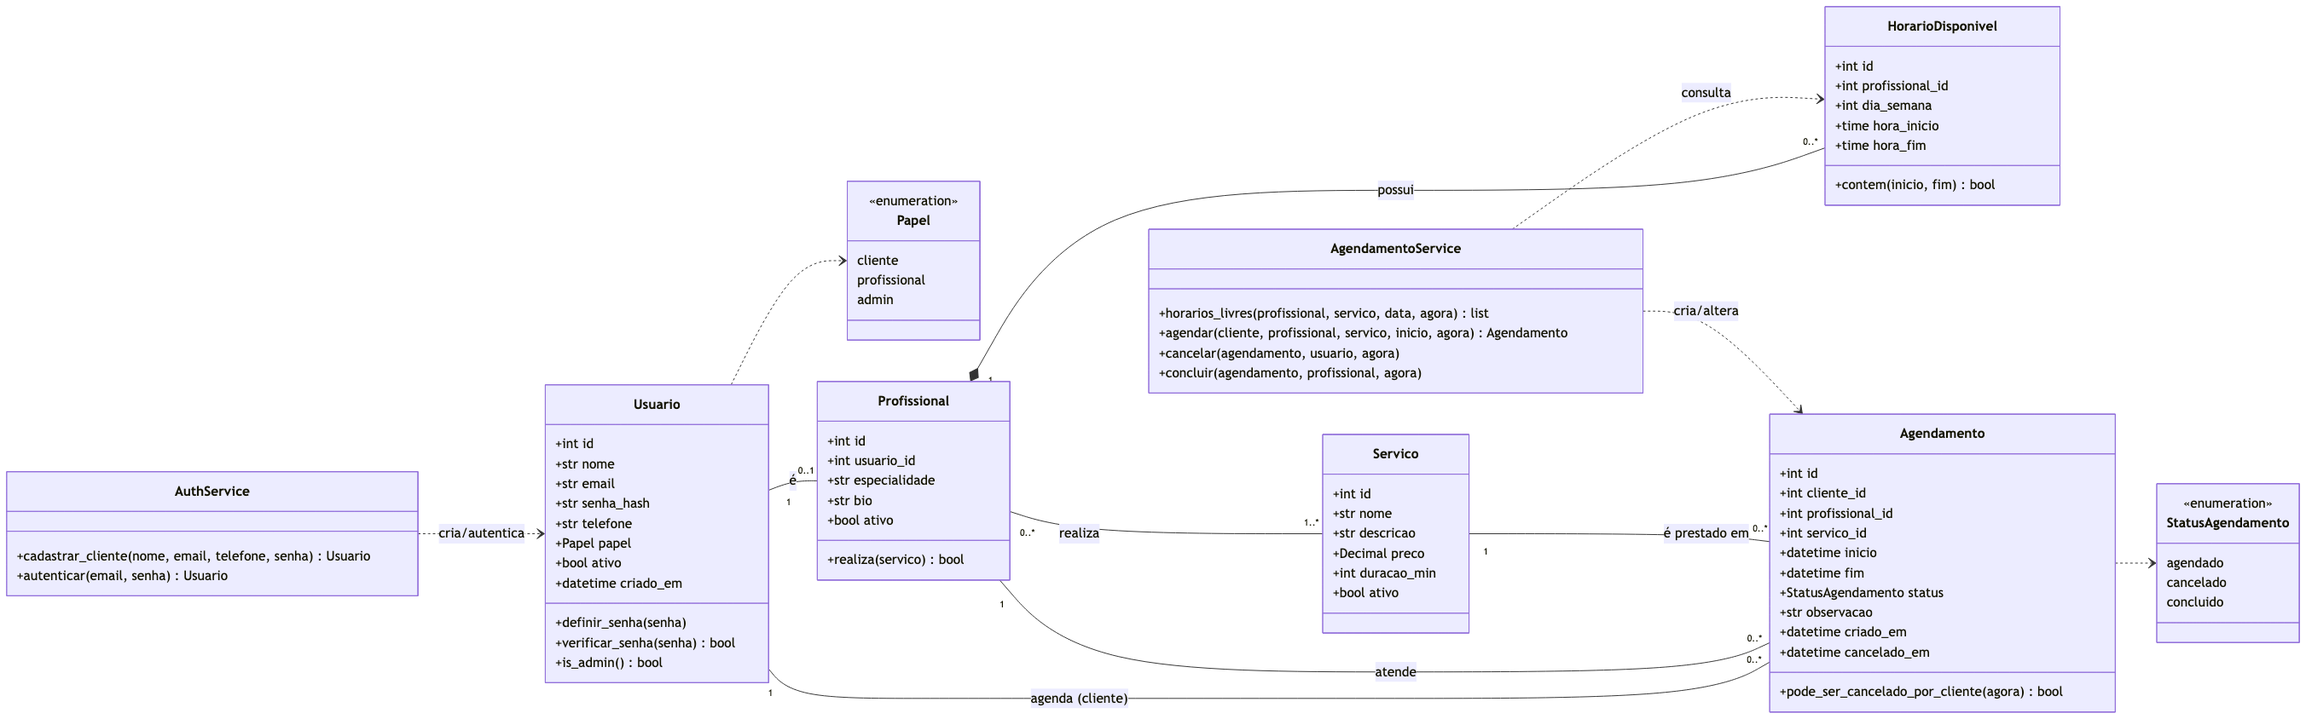
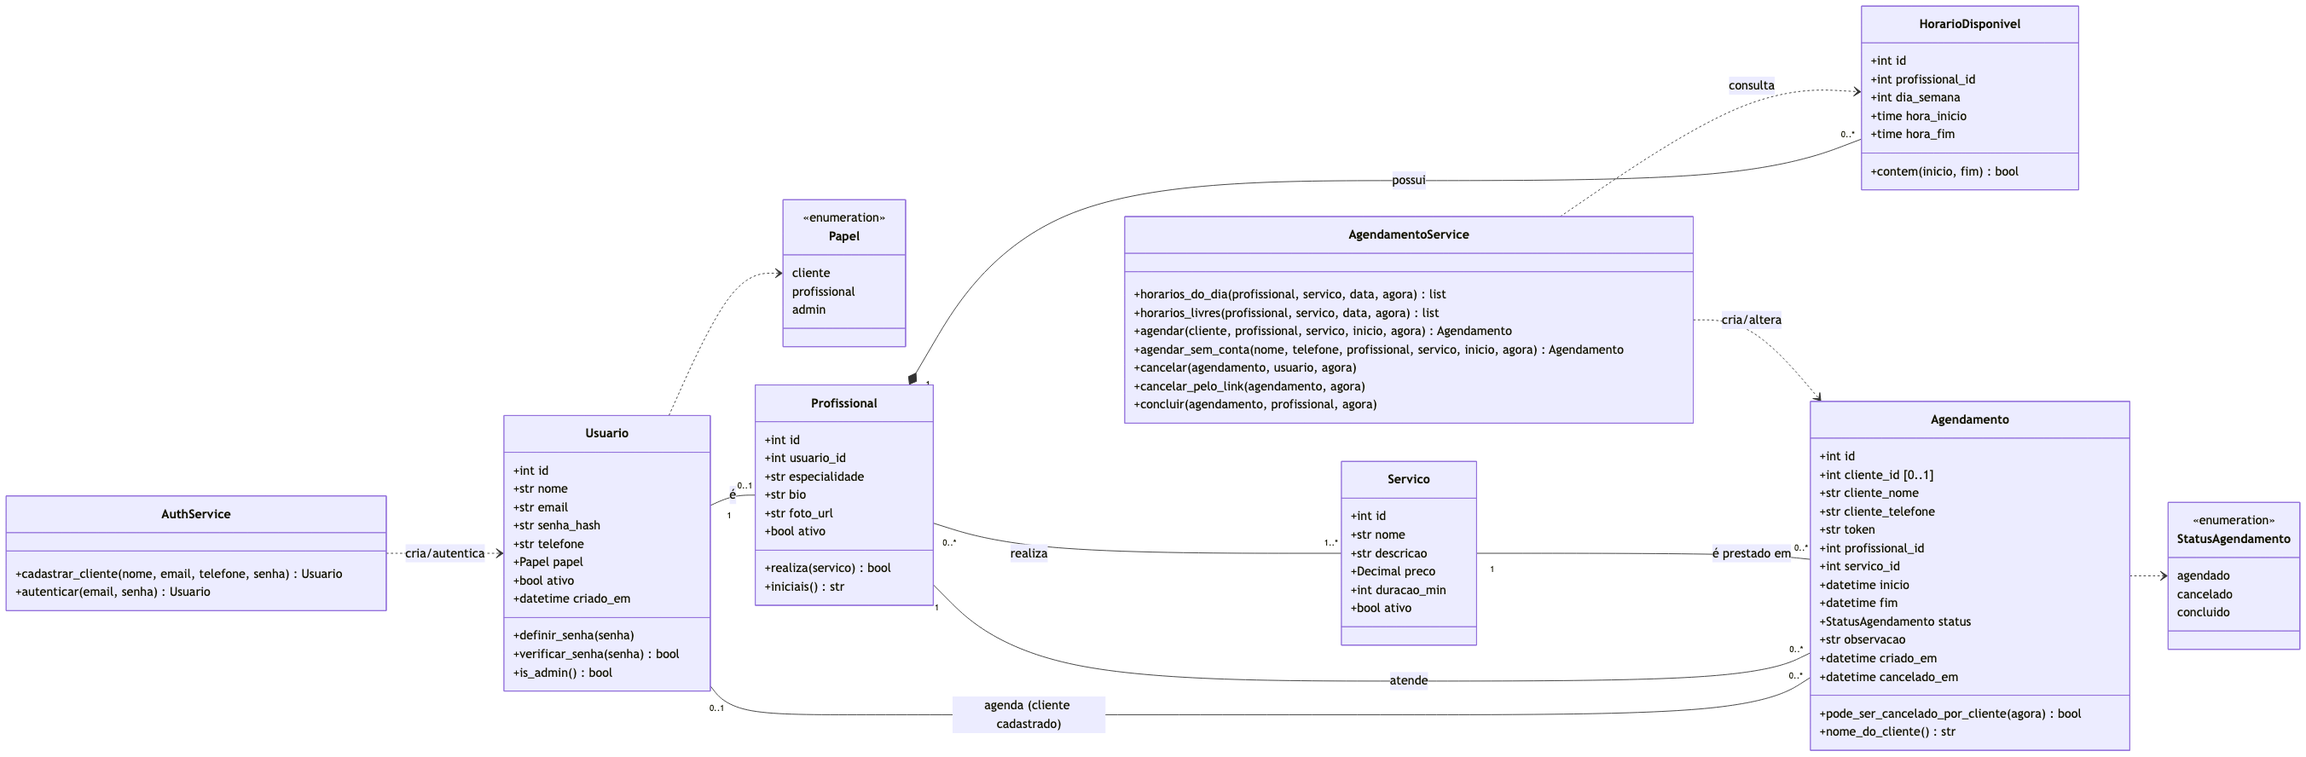
docs: testes dos 5 colegas no laudo, plano e formulário; parecer final; roteiro do vídeo e diagramas atualizados

diff --git a/scripts/preencher_formulario.py b/scripts/preencher_formulario.py
@@ -13,7 +13,6 @@ import docx
 RAIZ = Path(__file__).resolve().parents[1]
 MODELO = RAIZ / "entrega" / "modelo" / "PIT_atividade_8.docx"
 SAIDA = RAIZ / "entrega" / "PIT_atividade_8_preenchido.docx"
-PENDENTE_TESTE = "[PENDENTE: aguardando teste real]"
 
 
 def run_como(paragrafo, texto, modelo_run=None, negrito=False):
@@ -41,6 +40,33 @@ def acrescentar_na_celula(celula, texto):
     p = celula.paragraphs[-1]
     ref = p.runs[0] if p.runs else None
     run_como(p, " " + texto, ref, negrito=False)
+
+
+COLEGAS = [
+    ("Andrew", "28/10/2026",
+     "Parte A completa (A1 a A15) no celular Android + Chrome: cadastro, login, agendamento, cancelamento e "
+     "telas de erro.",
+     "O cadastro aceitava telefone só com símbolos, como \"((((((((\". Corrigir para aceitar só números e formatar "
+     "no padrão (xx) xxxxx-xxxx. Corrigido (C-01).",
+     "Parte B (profissional e administrador): testou apenas como cliente."),
+    ("Theo Nicoleli", "29/10/2026",
+     "A1 a A8, A12, A14 e A15 no iPhone: cadastro, login, agendamento, horário ocupado e celular.",
+     "Nada. Sugeriu agendar só com o telefone, sem tantos dados: aplicado como agendamento sem cadastro.",
+     "A9, A10, A11, A13 e a Parte B: quis testar só como cliente."),
+    ("Davi Inoue", "31/10/2026",
+     "Partes A e B completas (A1 a A15 e B1 a B4) no notebook Windows + Chrome.",
+     "Nada. Sugeriu aviso por WhatsApp ou e-mail e integração com o Google Agenda: Google Agenda aplicado.",
+     "Nenhuma."),
+    ("Arthur Furtado", "31/10/2026",
+     "A1 a A12, A14 e A15 no iPhone + Safari.",
+     "A13 marcado como falha (\"consegui acessar com o admin\"): era a tela de login, não defeito (C-02); o texto "
+     "do passo foi corrigido. Sugeriu cores diferentes para horários livres e ocupados: aplicado.",
+     "Parte B: não recebeu acesso."),
+    ("Cris", "10/11/2026",
+     "Parte A completa (A1 a A15) no Chrome.",
+     "Nada.",
+     "Parte B (profissional e administrador): marcada como não testada."),
+]
 
 
 def main():
@@ -80,12 +106,12 @@ def main():
     escrever_celula(t.rows[6], a.app)
     escrever_celula(t.rows[7], a.video)
 
-    # Testes da solução: 5 tabelas de colegas
-    for tabela in d.tables[1:6]:
-        acrescentar_na_celula(tabela.rows[0].cells[0], PENDENTE_TESTE)
-        acrescentar_na_celula(tabela.rows[0].cells[1], PENDENTE_TESTE)
-        for linha in tabela.rows[1:4]:
-            acrescentar_na_celula(linha.cells[0], PENDENTE_TESTE)
+    # Testes da solução: 5 tabelas de colegas (respostas reais do Google Forms; detalhes no laudo)
+    for tabela, (nome, data, funcionou, falhou, nao_testado) in zip(d.tables[1:6], COLEGAS):
+        acrescentar_na_celula(tabela.rows[0].cells[0], nome)
+        acrescentar_na_celula(tabela.rows[0].cells[1], data)
+        for linha, texto in zip(tabela.rows[1:4], (funcionou, falhou, nao_testado)):
+            acrescentar_na_celula(linha.cells[0], texto)
 
     # Laudo de qualidade: referências (usa os parágrafos vazios já existentes)
     i_laudo = next(i for i, p in enumerate(ps) if p.text.startswith("Insira a seguir o laudo"))
@@ -94,8 +120,10 @@ def main():
         "Laudo completo: docs/situacao-3/laudo-qualidade.md (no repositório indicado acima).",
         "Evidências (prints das telas): docs/evidencias/. Plano de testes de verificação e validação: "
         "docs/situacao-3/plano-testes.md. Relatório de testes automatizados: docs/situacao-2/relatorio-testes.md.",
-        "Resumo da versão 1.0.0: 87 testes automatizados aprovados, cobertura de 97%; 4 defeitos encontrados na "
-        "verificação interna (D-01 a D-04), todos corrigidos. Defeitos dos testes dos colegas: " + PENDENTE_TESTE + ".",
+        "Resumo: 116 testes automatizados aprovados, cobertura de 97%; 4 defeitos na verificação interna (D-01 a "
+        "D-04), todos corrigidos. Testes dos 5 colegas: 1 defeito de severidade média (C-01, corrigido) e 1 relato "
+        "encerrado por não ser defeito (C-02); 4 de 6 sugestões aplicadas. Parecer: aprovado, sem defeito crítico "
+        "ou alto aberto.",
         "Correções após os testes: docs/situacao-3/changelog-melhorias.md.",
     ]
     vazios = [p for p in ps[i_laudo + 1:] if not p.text.strip()][:len(linhas)]

diff --git a/docs/situacao-3/roteiro-video.md b/docs/situacao-3/roteiro-video.md
@@ -1,27 +1,36 @@
 # Roteiro do vídeo de apresentação (≈ 5 minutos)
 
 > **Atenção à duração:** o material da Situação 3 pede um vídeo "de até cinco minutos", mas o formulário da entrega e a seção "Problema em Foco" falam em vídeo narrado com "no mínimo 5 min". Para atender aos dois, o roteiro mira **exatamente 5:00**. Confirme com o tutor se houver dúvida.
+>
+> **Foco do vídeo:** o enunciado pede para "apresentar as modificações realizadas no sistema" depois dos testes. Por isso, metade do tempo (1:00–3:40) mostra as mudanças, citando o colega que sugeriu cada uma.
 
 **Preparação antes de gravar**
-- Abrir o sistema publicado antes de começar a gravar.
-- Deixar abertas três abas: (1) cliente deslogado, (2) janela anônima para o segundo cliente, (3) repositório no GitHub.
-- Ter logins de profissional e admin à mão (não mostrar a senha na tela).
+- Abrir https://agendafacil-wine.vercel.app no navegador e, se possível, também no celular (ou no modo celular do navegador, F12).
+- Deixar abertas: (1) o site sem login, (2) uma janela anônima para o segundo cliente, (3) o repositório no GitHub, (4) o laudo `docs/situacao-3/laudo-qualidade.md`.
+- Ter os logins de profissional e admin à mão (não mostrar a senha na tela).
 - Gravar em 1080p com microfone; sugestão: OBS Studio ou o gravador do próprio sistema operacional.
-- Preencher a seção "Mudanças após os testes" com o conteúdo real do [changelog](changelog-melhorias.md) antes de gravar.
 
 | Tempo | O que mostrar | O que falar (sugestão) |
 |---|---|---|
-| **0:00–0:30** | Tela inicial do AgendaFácil. | "Sou Davy Gabriel Stresser Pereira, RGM 36963089. Este é o AgendaFácil, um sistema web de agendamento para salões e barbearias, feito no PIT de Engenharia de Software II com Python/Flask, PostgreSQL e hospedado na Vercel." |
-| **0:30–1:00** | README no GitHub; pastas `docs/situacao-1, 2, 3`; diagrama de classes e DER. | "A documentação do PIT I foi revisada: escopo, UML, IHC, modelo de dados normalizado até a 3FN e dicionário de dados. O código segue MVC com uma camada de serviços para as regras de negócio." |
-| **1:00–2:00** | Cadastro de cliente (mostrar aviso "As senhas não conferem"), login, escolha do serviço → profissional → data → horário → confirmar. | "O cliente agenda em quatro passos. O sistema só mostra horários dentro da jornada do profissional, no futuro e que comportam a duração do serviço." |
-| **2:00–2:40** | Janela anônima com outro cliente tentando o **mesmo** horário → mensagem "acabou de ser ocupado". | "A regra mais importante: não pode haver dois agendamentos no mesmo horário. Ela é garantida no código e também no banco, com uma restrição EXCLUDE do PostgreSQL." |
-| **2:40–3:10** | Meus agendamentos → Cancelar → confirmação → cancelado. Mostrar um agendamento a menos de 2h com o aviso de cancelamento indisponível. | "O cliente pode cancelar com até 2 horas de antecedência; depois disso, o sistema explica por que não pode." |
-| **3:10–3:40** | Login como profissional: agenda, concluir, horários disponíveis. Login como admin: criar serviço com preço 0 (erro) e depois válido. | "O profissional controla a agenda e os horários; o administrador cadastra serviços e profissionais, com validação de preço e duração." |
-| **3:40–4:30** | **Mudanças após os testes dos colegas:** mostrar, lado a lado, o antes e o depois de cada correção listada no changelog. | [PENDENTE: preencher com as correções reais feitas a partir dos testes dos 5 colegas, citando os IDs C-01, C-02... do laudo] |
-| **4:30–5:00** | Terminal com `pytest --cov` (87 testes, 97%) e o laudo de qualidade. Encerramento. | "São 87 testes automatizados, incluindo ponta a ponta com Playwright, e o laudo registra os erros encontrados e as correções. Obrigado!" |
+| **0:00–0:30** | Página inicial do AgendaFácil (visual de barbearia). | "Sou Davy Gabriel Stresser Pereira, RGM 36963089. Este é o AgendaFácil, um sistema web de agendamento para salões e barbearias, feito no PIT de Engenharia de Software II com Python e Flask, banco PostgreSQL no Neon e hospedagem na Vercel." |
+| **0:30–1:00** | README no GitHub; pastas `docs/situacao-1, 2, 3`; diagrama de classes. | "A documentação do PIT I foi revisada: escopo, UML, IHC, modelo de dados até a 3FN e dicionário de dados. O sistema foi testado por cinco colegas, e o laudo registra o que eles encontraram e o que eu mudei." |
+| **1:00–1:40** | **Agendamento sem cadastro (Theo):** Agendar → quadro do serviço com foto → profissional com foto → calendário → horário → nome e celular → página "Seu agendamento" com link privado. | "O Theo sugeriu agendar só com o telefone. Agora o cliente não precisa criar conta: informa nome e celular e recebe um link privado para ver e cancelar. No mesmo celular, o agendamento aparece em Meus agendamentos." |
+| **1:40–2:10** | **Telefone (Andrew, C-01):** no cadastro, digitar "((((((((" → erro; digitar 43999991111 → aceito e mostrado como (43) 99999-1111. | "O Andrew encontrou um defeito: o telefone aceitava só símbolos. Agora o sistema exige DDD e número e formata sozinho. Criei um teste automatizado para esse caso." |
+| **2:10–2:35** | **Horários (Arthur):** no calendário, escolher um dia com horário ocupado → ocupado em cinza riscado, livres destacados, legenda. | "O Arthur sugeriu diferenciar horários livres e ocupados. Os ocupados agora aparecem em cinza e riscados, e não podem ser escolhidos." |
+| **2:35–2:55** | **C-02 (Arthur):** mostrar `/admin/` sem login (vai para o login) e logado como cliente ("Acesso negado"). | "O Arthur marcou que acessou o admin. Investiguei: era a tela de login, não uma falha. O painel só abre com a senha do administrador. Corrigi o texto do roteiro de teste, que induzia a esse engano." |
+| **2:55–3:15** | **Google Agenda (Davi):** Meus agendamentos → "Adicionar ao Google Agenda" → evento preenchido. | "O Davi sugeriu levar o agendamento para o Google Agenda. Agora um botão abre o evento já preenchido. A sugestão de aviso por WhatsApp ficou registrada como fora do escopo, porque exige um serviço pago." |
+| **3:15–3:40** | **Visual e hospedagem:** página inicial no celular; calendário do mês. | "Também refiz o visual com cara de barbearia, com fotos dos serviços e dos profissionais e um calendário do mês. E troquei a hospedagem para a Vercel com o banco no Neon: o site abre na hora, sem a tela de espera do plano gratuito anterior." |
+| **3:40–4:10** | **Regra principal:** janela anônima com outro cliente tentando o **mesmo** horário → "acabou de ser ocupado". | "A regra mais importante continua garantida: não pode haver dois agendamentos no mesmo horário. Ela é verificada no código e também no banco, com uma restrição EXCLUDE do PostgreSQL." |
+| **4:10–4:35** | Login como profissional (agenda, concluir) e como admin (serviço com preço 0 dá erro; cadastro de profissional com foto). | "O profissional controla a agenda e os horários; o administrador cadastra serviços e profissionais, agora com foto." |
+| **4:35–5:00** | Terminal com `pytest --cov` (116 testes, 97%) e o parecer final do laudo. Encerramento. | "São 116 testes automatizados, incluindo ponta a ponta com Playwright. Os cinco colegas testaram, o único defeito foi corrigido e quatro das seis sugestões foram aplicadas. Obrigado!" |
 
 ## Mudanças desde a versão inicial (para citar no vídeo)
 
 1. **Planejamento (PIT I → PIT II):** entidade `HorarioDisponivel` e tabela `profissional_servico`; regra de não sobreposição também no banco; requisitos não funcionais mensuráveis.
 2. **Verificação interna:** D-01 a D-04 do laudo (restrição sem `btree_gist`, índices alinhados, diagrama corrigido, teste E2E corrigido).
-3. **Após os colegas:** [PENDENTE: aguardando teste real]
+3. **Após os colegas** (detalhes no [changelog](changelog-melhorias.md) e no [laudo](laudo-qualidade.md)):
+   - C-01 (Andrew): telefone exige DDD e número e é salvo formatado.
+   - C-02 (Arthur): relato esclarecido, não era defeito; texto do passo A13 corrigido.
+   - Sugestões aplicadas: agendamento sem cadastro (Theo), cores dos horários (Arthur), Google Agenda (Davi), telefone formatado (Andrew).
+   - Sugestões não aplicadas, com motivo: aviso por WhatsApp ou e-mail (serviço pago) e login próprio de profissional (contraria RF13).
+4. **Outras melhorias:** visual de barbearia, fotos de serviços e profissionais, calendário do mês, remoção do campo "observação" da tela, hospedagem na Vercel com banco no Neon.

diff --git a/docs/situacao-3/laudo-qualidade.md b/docs/situacao-3/laudo-qualidade.md
@@ -1,6 +1,6 @@
 # Laudo de qualidade — AgendaFácil
 
-**Versão avaliada:** 1.0.0 · **Responsável:** Davy Gabriel Stresser Pereira (RGM 36963089) · **Emissão:** 19/10/2026 (parcial: aguardando os testes dos colegas)
+**Versão avaliada:** 1.0.0 · **Responsável:** Davy Gabriel Stresser Pereira (RGM 36963089) · **Emissão:** 19/10/2026 · **Atualização final:** 10/11/2026
 
 ## 1. Resumo
 
@@ -10,7 +10,7 @@
 | Cobertura de código | 96% |
 | Casos de teste do plano (CT-01 a CT-37) | 37 aprovados ([plano](plano-testes.md)) |
 | Defeitos encontrados na verificação interna | 4 (todos corrigidos), seção 3 |
-| Testes de aceitação com colegas | 4 de 5 realizados, seção 4 (colega 5: [PENDENTE: aguardando teste real]) |
+| Testes de aceitação com colegas | 5 de 5 realizados (28/10 a 10/11/2026), seção 4 |
 | Defeitos apontados pelos colegas | 1 corrigido (C-01); 1 relato encerrado sem defeito (C-02), seção 5 |
 
 **Escala de severidade**
@@ -54,7 +54,7 @@ Defeitos reais encontrados por mim durante a verificação (revisões, `flask db
 
 ## 4. Testes de aceitação com colegas
 
-> Cada colega seguiu o roteiro do [formulário](formulario-colegas.md), respondido pelo Google Forms entre 28 e 31/10/2026. As respostas abaixo resumem o que cada um escreveu; trechos entre aspas são literais.
+> Cada colega seguiu o roteiro do [formulário](formulario-colegas.md), respondido pelo Google Forms entre 28/10 e 10/11/2026. O colega 5 testou a versão já com as melhorias (agendamento sem cadastro, novo visual e calendário). As respostas abaixo resumem o que cada um escreveu; trechos entre aspas são literais.
 
 ### 4.1 Colega 1
 
@@ -104,12 +104,12 @@ Defeitos reais encontrados por mim durante a verificação (revisões, `flask db
 
 | Campo | Resposta |
 |---|---|
-| Nome | [PENDENTE: aguardando teste real] |
-| Data do teste | [PENDENTE: aguardando teste real] |
-| O que testou e funcionou | [PENDENTE: aguardando teste real] |
-| O que testou e não funcionou, e o que deve ser corrigido | [PENDENTE: aguardando teste real] |
-| Funcionalidade não testada, e por quê | [PENDENTE: aguardando teste real] |
-| Evidências (prints) | [PENDENTE: aguardando teste real] |
+| Nome | Cris |
+| Data do teste e dispositivo | 10/11/2026 · Chrome |
+| O que testou e funcionou | Parte A completa (A1 a A15): todos OK. "Testei todos os passos e OK." |
+| O que testou e não funcionou, e o que deve ser corrigido | "Nada." Sem sugestões. |
+| Funcionalidade não testada, e por quê | Parte B marcada como "Não testei" (sem acesso de profissional e administrador); na pergunta 3 respondeu "Não". |
+| Evidências (prints) | Sem prints. |
 
 ## 5. Defeitos apontados pelos colegas
 
@@ -122,4 +122,10 @@ Defeitos reais encontrados por mim durante a verificação (revisões, `flask db
 
 ## 6. Parecer final
 
-[PENDENTE: aguardando teste real. Preencher depois dos 5 testes e das correções, informando se a versão atende ao critério de aprovação do plano de testes: nenhum defeito Crítico ou Alto aberto.]
+A versão publicada (https://agendafacil-wine.vercel.app) **atende ao critério de aprovação** do plano de testes: não há defeito Crítico ou Alto aberto.
+
+- **Verificação interna:** 4 defeitos (D-01 a D-04), todos corrigidos.
+- **Testes dos 5 colegas:** 1 defeito de severidade Média (C-01, telefone sem validação de dígitos), corrigido e coberto por teste automatizado; 1 relato (C-02) investigado e encerrado por não ser defeito, com o texto do roteiro de teste corrigido. Os passos executados pelos colegas passaram, exceto esses dois casos.
+- **Sugestões dos colegas:** 4 de 6 aplicadas (telefone formatado, cores dos horários, Google Agenda e agendamento sem cadastro); as 2 restantes estão justificadas no [changelog](changelog-melhorias.md).
+- **Testes automatizados:** 116 aprovados (e 1 de PostgreSQL, executado com banco configurado), cobertura de 97%.
+- **Limitação conhecida:** a Parte B (profissional e administrador) foi testada por apenas 1 colega; ela é coberta pelos testes automatizados e pelas evidências 15 a 19.

diff --git a/docs/situacao-1/uml/classes.md b/docs/situacao-1/uml/classes.md
@@ -30,8 +30,10 @@ classDiagram
         +int usuario_id
         +str especialidade
         +str bio
+        +str foto_url
         +bool ativo
         +realiza(servico) bool
+        +iniciais() str
     }
 
     class Servico {
@@ -54,7 +56,10 @@ classDiagram
 
     class Agendamento {
         +int id
-        +int cliente_id
+        +int cliente_id [0..1]
+        +str cliente_nome
+        +str cliente_telefone
+        +str token
         +int profissional_id
         +int servico_id
         +datetime inicio
@@ -64,6 +69,7 @@ classDiagram
         +datetime criado_em
         +datetime cancelado_em
         +pode_ser_cancelado_por_cliente(agora) bool
+        +nome_do_cliente() str
     }
 
     class StatusAgendamento {
@@ -74,9 +80,12 @@ classDiagram
     }
 
     class AgendamentoService {
+        +horarios_do_dia(profissional, servico, data, agora) list
         +horarios_livres(profissional, servico, data, agora) list
         +agendar(cliente, profissional, servico, inicio, agora) Agendamento
+        +agendar_sem_conta(nome, telefone, profissional, servico, inicio, agora) Agendamento
         +cancelar(agendamento, usuario, agora)
+        +cancelar_pelo_link(agendamento, agora)
         +concluir(agendamento, profissional, agora)
     }
 
@@ -86,7 +95,7 @@ classDiagram
     }
 
     Usuario "1" -- "0..1" Profissional : é
-    Usuario "1" -- "0..*" Agendamento : agenda (cliente)
+    Usuario "0..1" -- "0..*" Agendamento : agenda (cliente cadastrado)
     Profissional "1" -- "0..*" Agendamento : atende
     Servico "1" -- "0..*" Agendamento : é prestado em
     Profissional "1" *-- "0..*" HorarioDisponivel : possui
@@ -103,3 +112,4 @@ classDiagram
 - `Profissional` é uma especialização por associação 1:1 com `Usuario` (o login é sempre um `Usuario`; os dados de trabalho ficam em `Profissional`). Essa escolha evita colunas nulas na tabela de usuários para clientes.
 - `HorarioDisponivel` é composição de `Profissional`: se o profissional for removido, sua jornada também é.
 - A associação N:N `Profissional`–`Servico` vira a tabela `profissional_servico` no modelo lógico.
+- Agendamento sem cadastro (RF15): `cliente_id` fica nulo e o agendamento guarda `cliente_nome`, `cliente_telefone` e um `token` aleatório, que forma o link privado para ver e cancelar (RN08). A restrição `ck_ag_cliente` exige um dos dois casos.

diff --git a/docs/situacao-1/uml/casos-de-uso.md b/docs/situacao-1/uml/casos-de-uso.md
@@ -7,6 +7,7 @@ flowchart LR
     Cliente([👤 Cliente])
     Profissional([👤 Profissional])
     Admin([👤 Administrador])
+    Visitante([👤 Visitante sem cadastro])
 
     subgraph Sistema["AgendaFácil"]
         UC01((Cadastrar-se))
@@ -22,7 +23,12 @@ flowchart LR
         UC11((Gerenciar serviços))
         UC12((Cadastrar profissional))
         UC13((Ver todos os agendamentos))
+        UC14((Ver agendamento pelo link))
     end
+
+    Visitante --- UC03
+    Visitante --- UC04
+    Visitante --- UC14
 
     Cliente --- UC01
     Cliente --- UC02
@@ -42,7 +48,8 @@ flowchart LR
     Admin --- UC07
 
     UC04 -. "«include»" .-> UC05
-    UC04 -. "«include»" .-> UC02
+    UC04 -. "«extend» (cliente com conta)" .-> UC02
+    UC14 -. "«extend» (≥ 2h antes)" .-> UC07
     UC07 -. "«extend» (≥ 2h antes, se cliente)" .-> UC06
 ```
 
@@ -63,3 +70,4 @@ flowchart LR
 | UC11 | Gerenciar serviços | Admin | Logado como admin | Serviço criado/alterado/ativado/desativado |
 | UC12 | Cadastrar profissional | Admin | E-mail não cadastrado | Usuário `profissional` + Profissional criados |
 | UC13 | Ver todos os agendamentos | Admin | Logado como admin | Lista exibida |
+| UC14 | Ver agendamento pelo link | Visitante sem cadastro | Link privado recebido ao agendar (RF15, RN08) | Vê o agendamento, adiciona ao Google Agenda ou cancela (≥ 2h antes) |

diff --git a/docs/situacao-3/plano-testes.md b/docs/situacao-3/plano-testes.md
@@ -107,10 +107,10 @@ Coluna **Automação**: arquivo e teste que executam o caso. Coluna **Resultado 
 
 | ID | Testador | Data | Resultado |
 |---|---|---|---|
-| VA-01 | Colega 1 | [PENDENTE: aguardando teste real] | [PENDENTE] |
-| VA-02 | Colega 2 | [PENDENTE: aguardando teste real] | [PENDENTE] |
-| VA-03 | Colega 3 | [PENDENTE: aguardando teste real] | [PENDENTE] |
-| VA-04 | Colega 4 | [PENDENTE: aguardando teste real] | [PENDENTE] |
-| VA-05 | Colega 5 | [PENDENTE: aguardando teste real] | [PENDENTE] |
+| VA-01 | Colega 1 (Andrew) | 28/10/2026 | Parte A OK; 1 defeito (C-01, corrigido); Parte B não testada |
+| VA-02 | Colega 2 (Theo Nicoleli) | 29/10/2026 | Passos testados OK (11 de 15 da Parte A); sem defeitos |
+| VA-03 | Colega 3 (Davi Inoue) | 31/10/2026 | Partes A e B completas OK; sem defeitos |
+| VA-04 | Colega 4 (Arthur Furtado) | 31/10/2026 | Parte A OK, exceto A13 (C-02, não era defeito); Parte B não testada |
+| VA-05 | Colega 5 (Cris) | 10/11/2026 | Parte A completa OK; Parte B não testada |
 
 Os detalhes de cada teste ficam em [`laudo-qualidade.md`](laudo-qualidade.md).

diff --git a/docs/situacao-3/changelog-melhorias.md b/docs/situacao-3/changelog-melhorias.md
@@ -4,7 +4,7 @@ Formato baseado em [Keep a Changelog](https://keepachangelog.com/pt-BR/1.1.0/). 
 
 ## [Não lançado]: correções após os testes dos colegas
 
-Testes feitos por 4 colegas pelo Google Forms entre 28 e 31/10/2026 (laudo, seção 4). Colega 5: [PENDENTE: aguardando teste real].
+Testes feitos por 5 colegas pelo Google Forms entre 28/10 e 10/11/2026 (laudo, seção 4).
 
 ### Alterado
 - Hospedagem trocada do Render para a Vercel e banco PostgreSQL movido para o Neon (São Paulo). Motivo: no plano gratuito do Render o site mostrava uma tela de carregamento de até 1 minuto a cada acesso depois de parado, e o banco gratuito expirava em 30 dias. `render.yaml` e `start.sh` removidos; `vercel.json` adicionado; passo a passo em `docs/deploy.md`.
